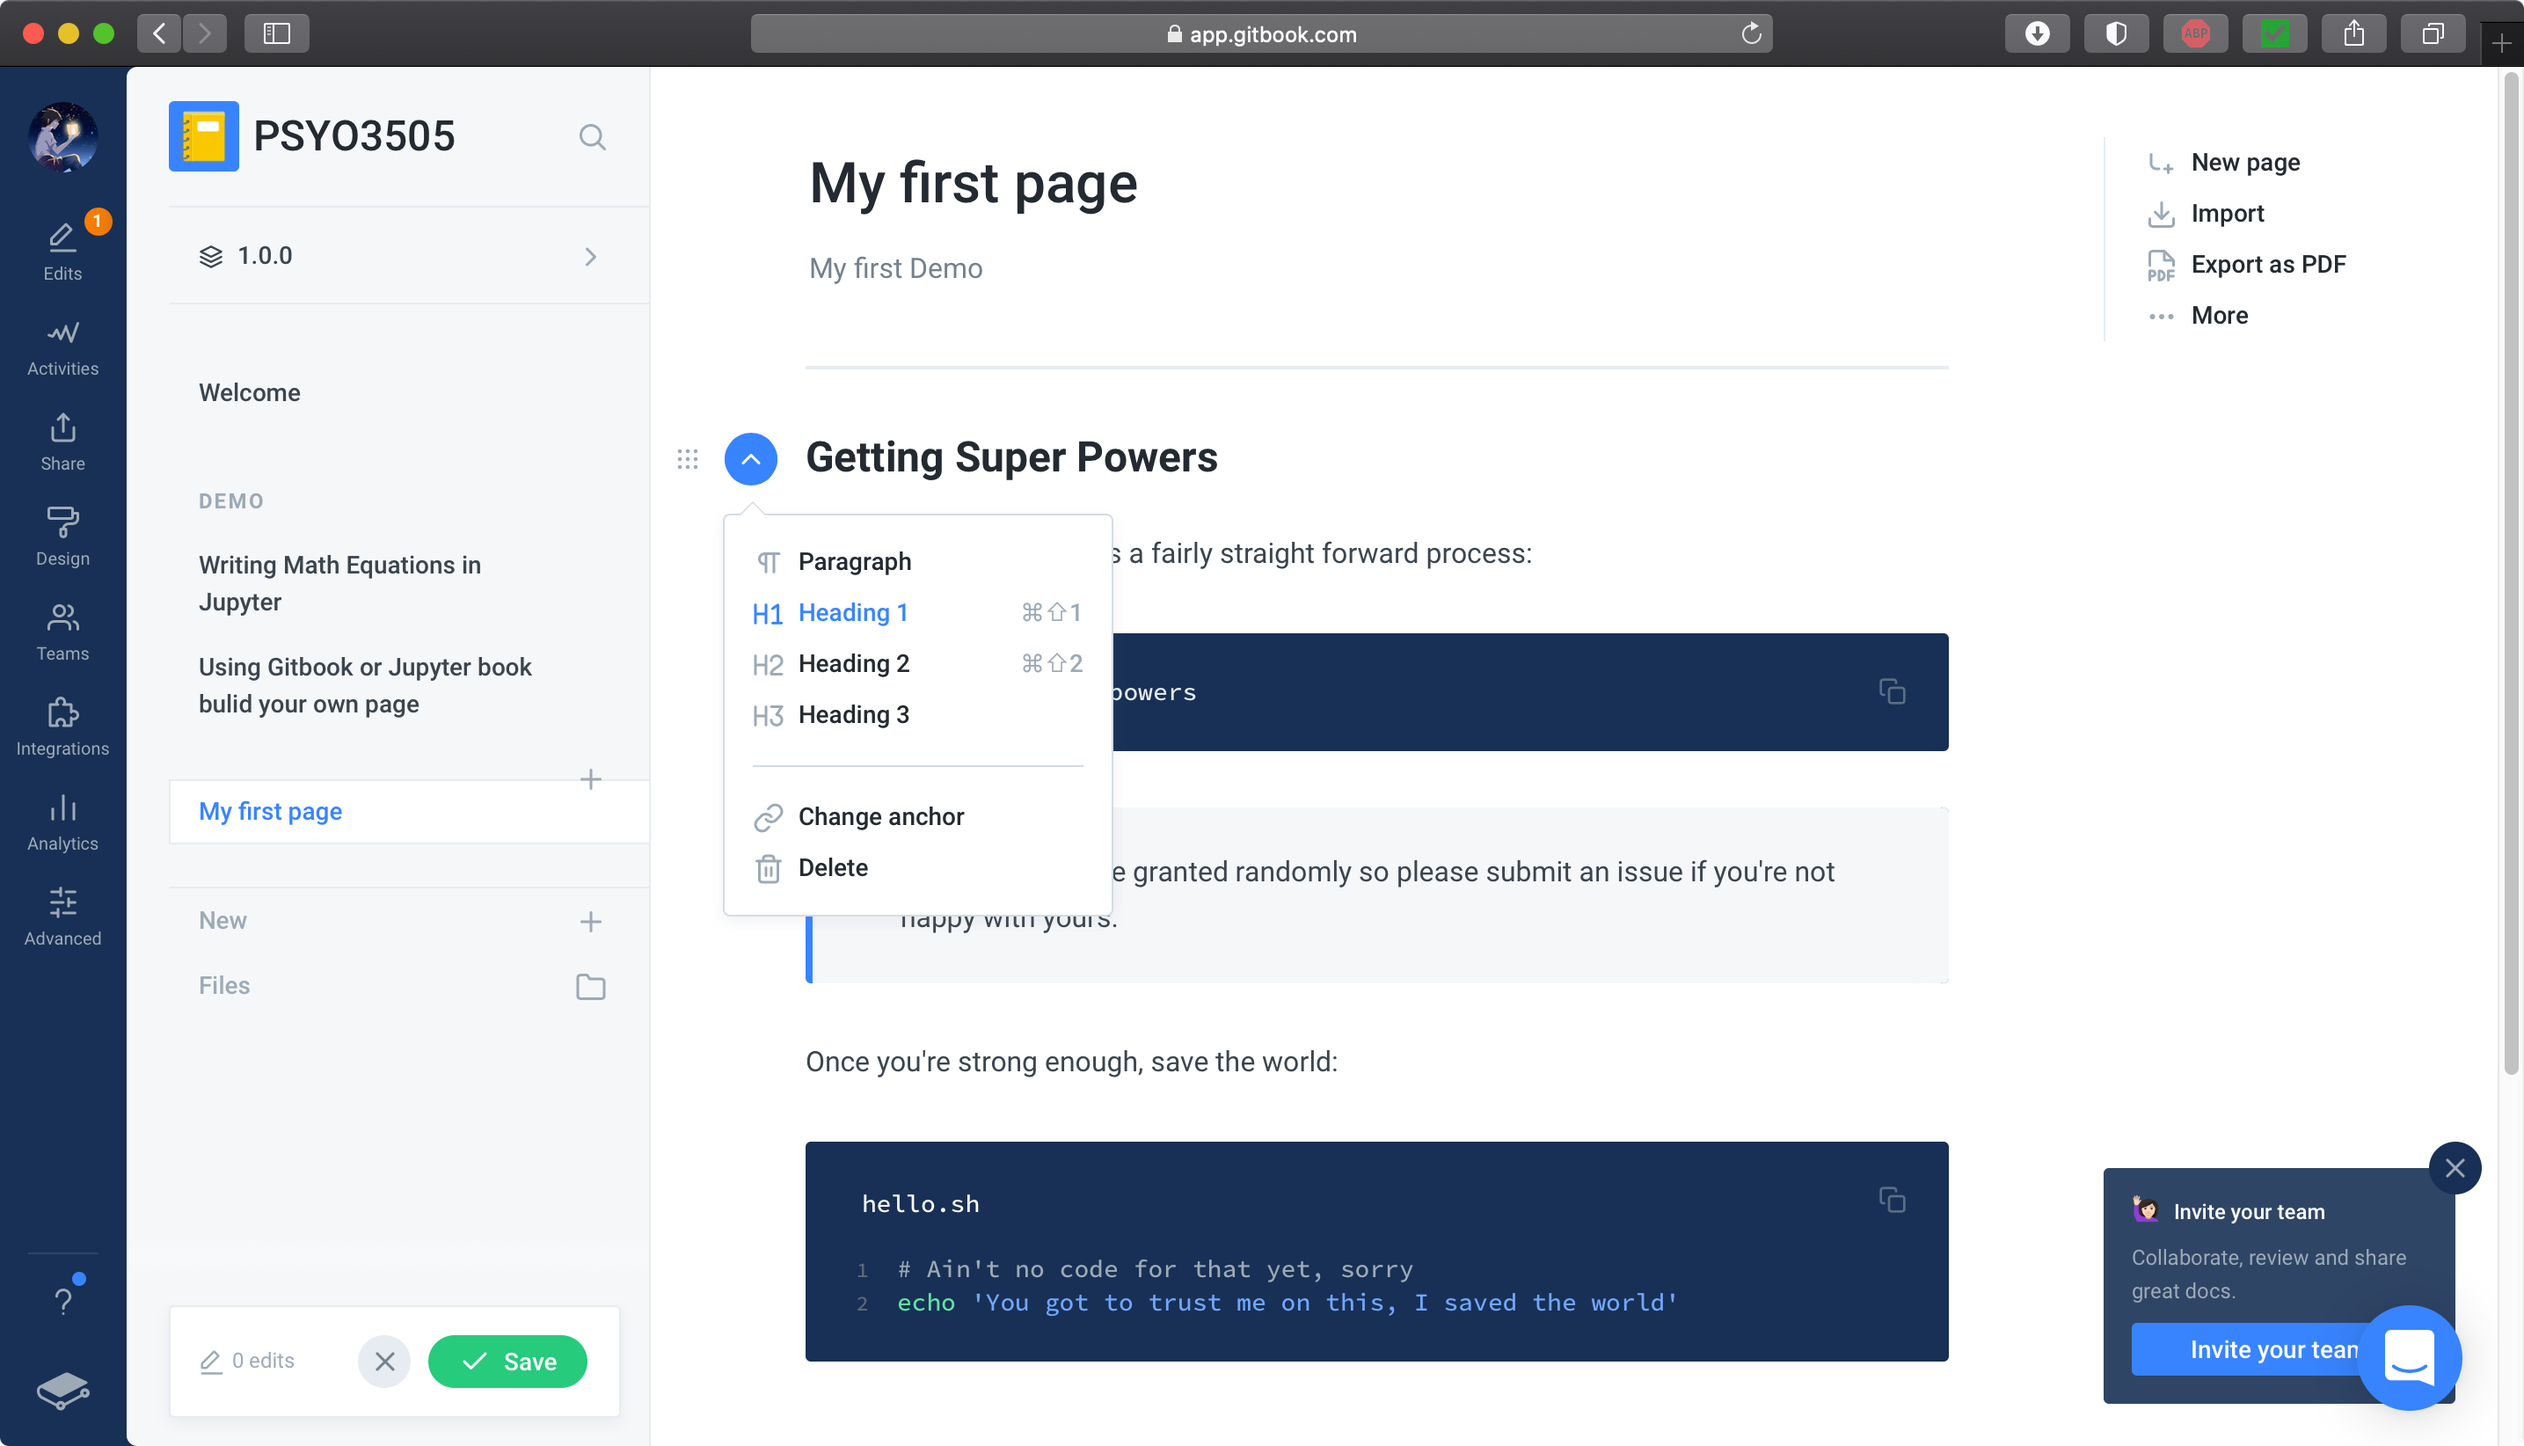
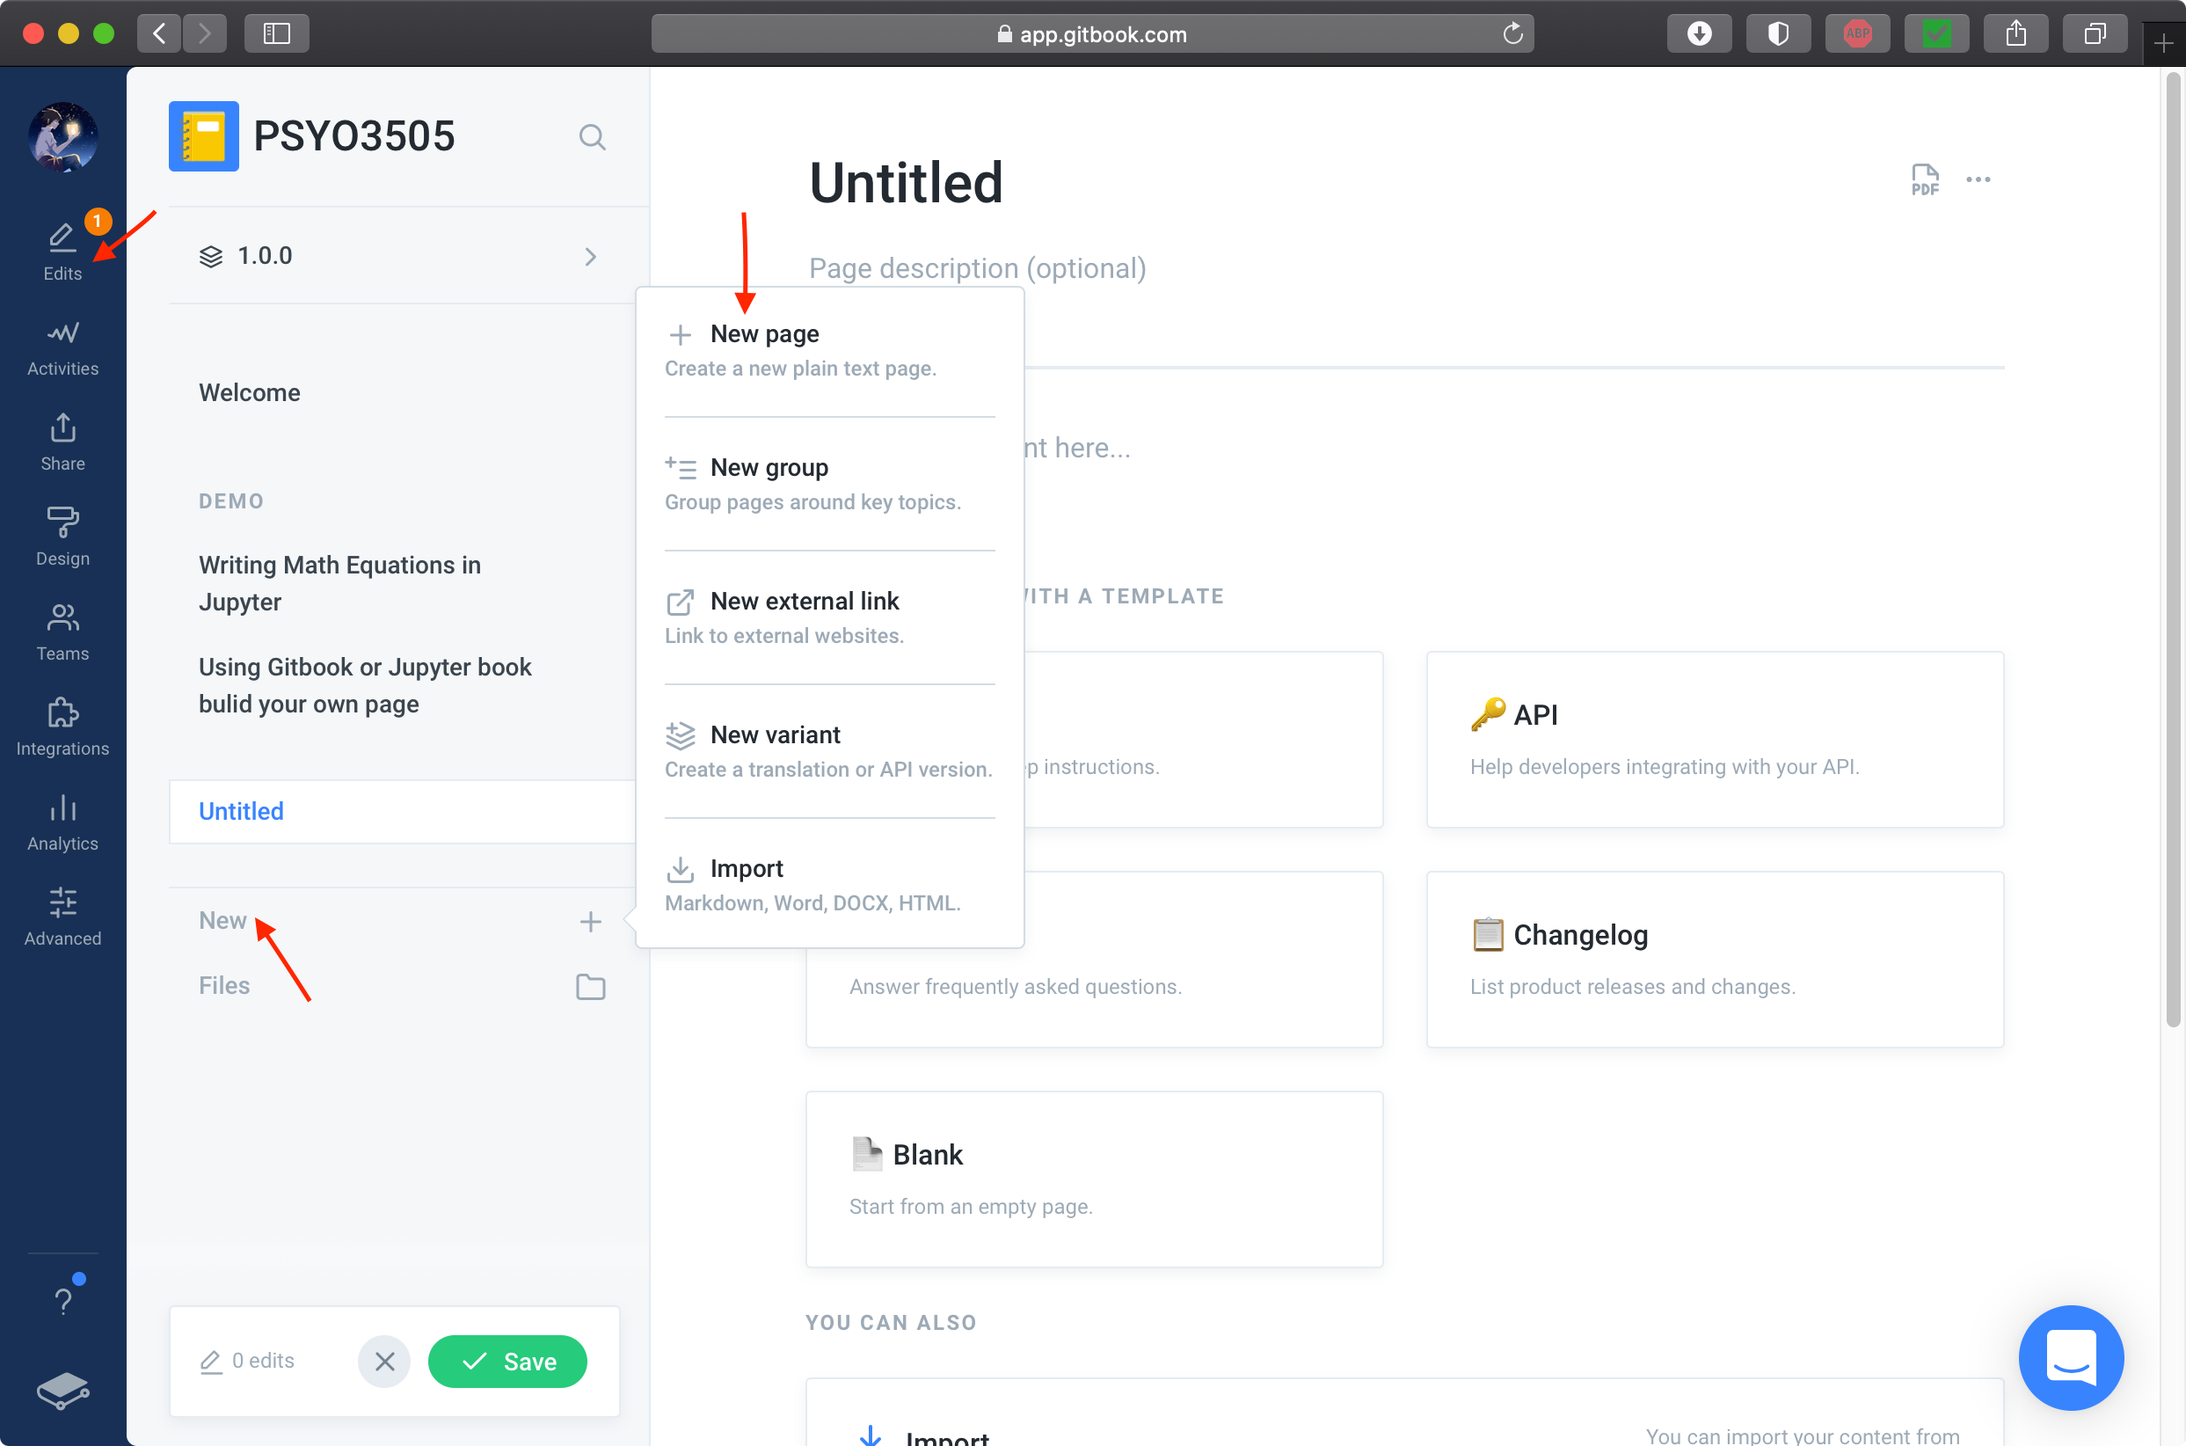
GitBook: [master] one page and 8 assets modified

diff --git a/demo/using-gitbook-or-jupyter-book-bulid-your-own-page.md b/demo/using-gitbook-or-jupyter-book-bulid-your-own-page.md
@@ -18,15 +18,15 @@ In my opinion, [Gitbook](https://www.gitbook.com) is a modern document sharing p
 
 Based on the platform management requirements, first of all you need an [account](https://app.gitbook.com/join?utm_source=homepage&utm_medium=header&utm_content=signup), this step is not difficult, I suggest you choose ‘sign in with’ Github. so that it is easy to access your page in later.
 
-![You can sign up with your Github ](../.gitbook/assets/image%20%287%29.png)
+![You can sign up with your Github ](../.gitbook/assets/image%20%289%29.png)
 
 After that, you can enter dashboard page, like picture shows
 
-![Dashboard Page](../.gitbook/assets/image%20%288%29.png)
+![Dashboard Page](../.gitbook/assets/image%20%2810%29.png)
 
 We can click the ‘Edits’ button to go back to the home page, then we click ‘New’ to select a ‘new page’. The default name of the new page is ‘untitled’ and we can easily change this information in later.
 
-![Select new page](../.gitbook/assets/image%20%284%29.png)
+![Select new page](../.gitbook/assets/image%20%285%29.png)
 
 In this new page we can select the page template, for demo purposes we select the ‘basic guide’ template. Note that you can also import word, Markdown, and HTML files directly here but unfortunately ipynb files are not supported. This is also a major drawback of Gitbook in my opinion.
 
@@ -34,7 +34,17 @@ In this new page we can select the page template, for demo purposes we select th
 Gitbook not support .ipynb fies 
 {% endhint %}
 
-After planning the content, we first select how many paragraphs are needed and then add the corresponding headings. We click the **‘ ^ ’** button to edit heading and paragraph.
+After planning the content, we first select how many Heading are needed and then add it. We click the **‘ ^ ’** button to edit heading and paragraph.
 
-![edit heading and paragraph](../.gitbook/assets/image%20%285%29.png)
+![edit heading and paragraph](../.gitbook/assets/image%20%286%29.png)
+
+After finishing the Heading planning, we can click the ' + ' in the blank to add the specific content. In common use, we can select Code block, image or Math to insert mathematical equations.\( For details, you can see my last[ demo](https://sakurachaojun.gitbook.io/psyo3505/demo/latex)\)
+
+![Code block, image, Math Equation or select paragraph insert word](../.gitbook/assets/image%20%283%29.png)
+
+```text
+This is code block 
+```
+
+
 
